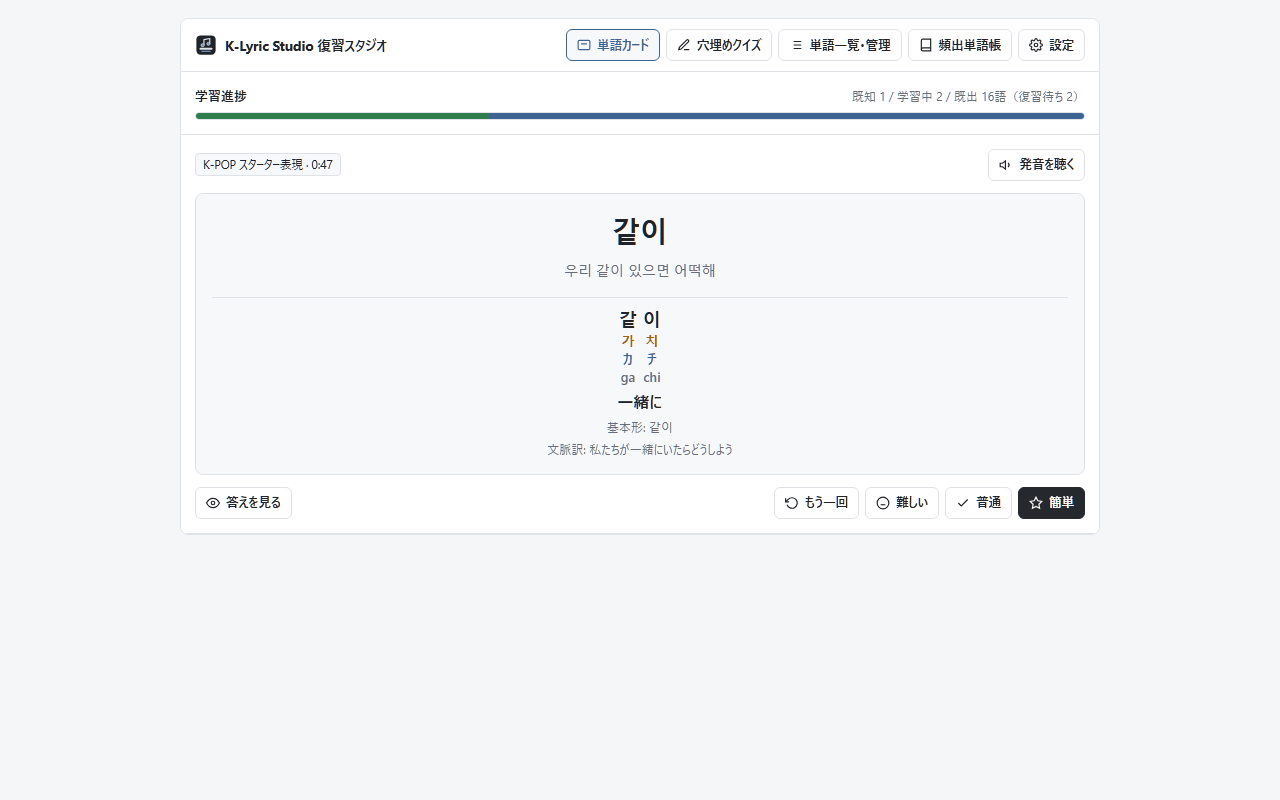
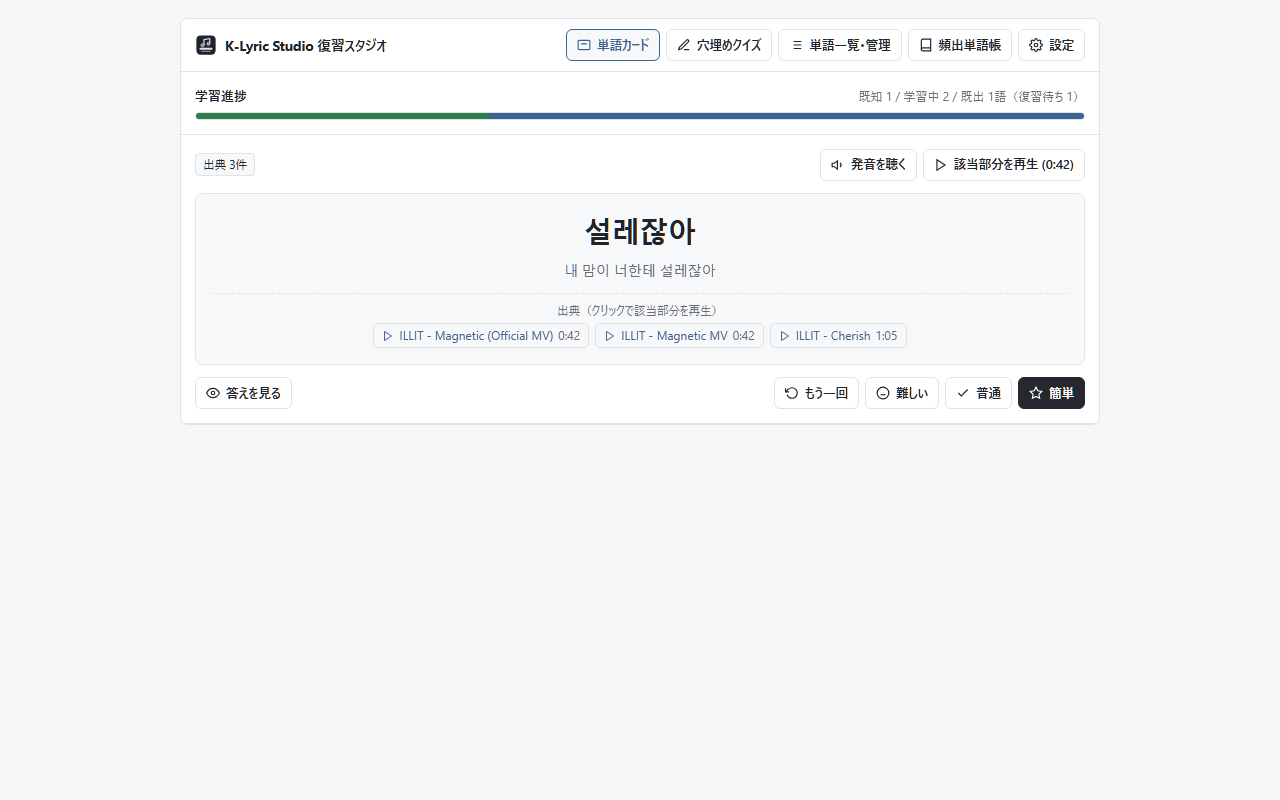
v1.7.2: 復習スタジオ全タブでvocabLog統合出典を表示し該当秒数再生リンクを追加、YTMの&t=シーク補助を実装

diff --git a/studio.js b/studio.js
@@ -99,18 +99,40 @@
   }
 
   function itemOccurrences(item) {
-    if (Array.isArray(item && item.occurrences) && item.occurrences.length) {
-      return item.occurrences.filter((o) => o && o.url);
+    if (!item) return [];
+    const cardOccs = Array.isArray(item.occurrences) && item.occurrences.length
+      ? item.occurrences.filter((o) => o && o.url)
+      : item.sourceUrl
+        ? [{
+            videoId: "",
+            title: item.sourceTitle || "YouTube",
+            sec: item.timestampSec || 0,
+            url: item.sourceUrl
+          }]
+        : [];
+
+    const wordsMap = state.vocabLog && state.vocabLog.words;
+    let logOccs = [];
+    if (wordsMap) {
+      const candidates = [item.lemma, item.surface];
+      if (Dict && item.surface) {
+        const clean = Dict.cleanHangulWord ? Dict.cleanHangulWord(item.surface) : "";
+        const analyzed = Dict.analyzeToken ? Dict.analyzeToken(item.surface) : null;
+        if (analyzed && analyzed.lemma) candidates.push(analyzed.lemma);
+        if (clean) candidates.push(clean);
+      }
+      for (const k of candidates) {
+        if (k && wordsMap[k] && Array.isArray(wordsMap[k].occurrences) && wordsMap[k].occurrences.length) {
+          logOccs = wordsMap[k].occurrences;
+          break;
+        }
+      }
     }
-    if (item && item.sourceUrl) {
-      return [{
-        videoId: "",
-        title: item.sourceTitle || "YouTube",
-        sec: item.timestampSec || 0,
-        url: item.sourceUrl
-      }];
+
+    if (VocabLog && typeof VocabLog.mergeOccurrences === "function") {
+      return VocabLog.mergeOccurrences(cardOccs, logOccs);
     }
-    return [];
+    return cardOccs.length ? cardOccs : logOccs;
   }
 
   function renderOccurrencesHtml(occs, limit = 3) {
@@ -144,17 +166,23 @@
     }
 
     const occs = itemOccurrences(item);
-    document.getElementById("card-source-badge").textContent = `${item.sourceTitle || "出典"} · ${formatSec(item.timestampSec)}`;
     const primary = occs[0];
+    document.getElementById("card-source-badge").textContent = occs.length > 1
+      ? `出典 ${occs.length}件`
+      : primary
+        ? `${primary.title || "出典"} · ${formatSec(primary.sec)}`
+        : (item.sourceTitle || "出典なし");
     if (primary && primary.url) {
       vLink.href = primary.url;
-      vLink.querySelector("span").textContent = `${primary.title || "動画"} (${formatSec(primary.sec)})`;
+      vLink.querySelector("span").textContent = `該当部分を再生 (${formatSec(primary.sec)})`;
       vLink.classList.remove("kls-hidden");
     } else {
       vLink.classList.add("kls-hidden");
     }
     if (occBox) {
-      occBox.innerHTML = occs.length > 1 ? renderOccurrencesHtml(occs, 4) : "";
+      occBox.innerHTML = occs.length
+        ? `<div class="kls-source-label">出典（クリックで該当部分を再生）</div>${renderOccurrencesHtml(occs, 4)}`
+        : `<div class="kls-muted">視聴動画からの出典はまだありません（動画で登場すると自動で紐付きます）</div>`;
     }
 
     document.getElementById("card-surface").textContent = item.surface;
@@ -184,7 +212,29 @@
     if (!all.length) return;
     const item = all[state.clozeIdx % all.length];
     const q = SRS.buildClozeQuestion(item, all, state.clozeIdx);
-    document.getElementById("cloze-source").textContent = `${item.sourceTitle || "出典"} · ${formatSec(item.timestampSec)}`;
+    const occs = itemOccurrences(item);
+    const primary = occs[0];
+    document.getElementById("cloze-source").textContent = occs.length > 1
+      ? `出典 ${occs.length}件`
+      : primary
+        ? `${primary.title || "出典"} · ${formatSec(primary.sec)}`
+        : (item.sourceTitle || "穴埋めクイズ");
+    const cLink = document.getElementById("btn-cloze-video");
+    if (cLink) {
+      if (primary && primary.url) {
+        cLink.href = primary.url;
+        cLink.querySelector("span").textContent = `該当部分を再生 (${formatSec(primary.sec)})`;
+        cLink.classList.remove("kls-hidden");
+      } else {
+        cLink.classList.add("kls-hidden");
+      }
+    }
+    const cOccBox = document.getElementById("cloze-occurrences");
+    if (cOccBox) {
+      cOccBox.innerHTML = occs.length
+        ? `<div class="kls-source-label">出典（クリックで該当部分を再生）</div>${renderOccurrencesHtml(occs, 4)}`
+        : "";
+    }
     document.getElementById("cloze-prompt").textContent = q.promptLine;
     document.getElementById("cloze-ja").textContent = q.jaContext ? `訳: ${q.jaContext}` : "";
 
@@ -447,6 +497,20 @@
         renderAll();
       }
     });
+
+    if (typeof chrome !== "undefined" && chrome.storage && chrome.storage.onChanged) {
+      chrome.storage.onChanged.addListener((changes) => {
+        if (changes.vocabLog && VocabLog) {
+          state.vocabLog = VocabLog.normalizeStore(changes.vocabLog.newValue);
+          renderAll();
+        }
+        if (changes.savedCards && changes.savedCards.newValue) {
+          state.savedCards = changes.savedCards.newValue;
+          buildQueue();
+          renderAll();
+        }
+      });
+    }
 
     document.getElementById("freq-search").oninput = renderFreqPane;
     document.getElementById("freq-sort").onchange = renderFreqPane;

diff --git a/studio.html b/studio.html
@@ -59,7 +59,7 @@
           </button>
           <a id="btn-card-video" href="#" target="_blank" rel="noopener" class="kls-btn">
             <svg viewBox="0 0 24 24" fill="none" stroke="currentColor" stroke-width="2"><polygon points="5 3 19 12 5 21 5 3"></polygon></svg>
-            <span>元動画の秒数を開く</span>
+            <span>該当部分を再生</span>
           </a>
         </div>
       </div>
@@ -67,7 +67,7 @@
       <div class="kls-card-box" style="text-align:center;display:grid;gap:8px;">
         <div id="card-surface" style="font-size:28px;font-weight:700;"></div>
         <div id="card-context" class="kls-muted" style="font-size:14px;"></div>
-        <div id="card-occurrences"></div>
+        <div id="card-occurrences" class="kls-source-box"></div>
         <div id="card-answer" class="kls-hidden" style="border-top:1px solid var(--ui-border);padding-top:10px;display:grid;gap:4px;">
           <div id="card-reading" style="font-size:14px;font-weight:600;color:var(--ui-accent);"></div>
           <div id="card-meaning" style="font-size:16px;font-weight:700;"></div>
@@ -106,16 +106,23 @@
     <section id="pane-cloze" class="kls-section kls-hidden" style="display:grid;gap:12px;">
       <div class="kls-row">
         <span id="cloze-source" class="kls-badge">穴埋めクイズ</span>
-        <button id="btn-cloze-speak" type="button" class="kls-btn">
-          <svg viewBox="0 0 24 24" fill="none" stroke="currentColor" stroke-width="2"><polygon points="11 5 6 9 2 9 2 15 6 15 11 19 11 5"></polygon><path d="M15.54 8.46a5 5 0 0 1 0 7.07"></path></svg>
-          <span>文を読み上げ</span>
-        </button>
+        <div class="kls-seg">
+          <button id="btn-cloze-speak" type="button" class="kls-btn">
+            <svg viewBox="0 0 24 24" fill="none" stroke="currentColor" stroke-width="2"><polygon points="11 5 6 9 2 9 2 15 6 15 11 19 11 5"></polygon><path d="M15.54 8.46a5 5 0 0 1 0 7.07"></path></svg>
+            <span>文を読み上げ</span>
+          </button>
+          <a id="btn-cloze-video" href="#" target="_blank" rel="noopener" class="kls-btn kls-hidden">
+            <svg viewBox="0 0 24 24" fill="none" stroke="currentColor" stroke-width="2"><polygon points="5 3 19 12 5 21 5 3"></polygon></svg>
+            <span>該当部分を再生</span>
+          </a>
+        </div>
       </div>
 
       <div class="kls-card-box" style="text-align:center;display:grid;gap:6px;">
         <div id="cloze-prompt" style="font-size:20px;font-weight:700;"></div>
         <div id="cloze-ja" class="kls-muted"></div>
         <div id="cloze-feedback" class="kls-hidden" style="padding-top:8px;border-top:1px solid var(--ui-border);"></div>
+        <div id="cloze-occurrences" class="kls-source-box"></div>
       </div>
 
       <div id="cloze-choices" class="kls-grid-2"></div>

diff --git a/content.js b/content.js
@@ -123,6 +123,7 @@
     vocabLog: null,
     vocabRecordNote: "",
     newlyRecordedVideoId: "",
+    appliedSeekKey: "",
     quickStatus: {},
     meta: {
       isMusic: location.hostname === "music.youtube.com",
@@ -1104,6 +1105,32 @@
     return true;
   }
 
+  function parseStartSecFromUrl(href) {
+    try {
+      const t = new URL(href, location.href).searchParams.get("t");
+      if (!t) return 0;
+      if (/^\d+$/.test(t)) return Number(t);
+      const m = t.match(/^(?:(\d+)h)?(?:(\d+)m)?(?:(\d+)s?)?$/i);
+      if (!m) return 0;
+      return (Number(m[1]) || 0) * 3600 + (Number(m[2]) || 0) * 60 + (Number(m[3]) || 0);
+    } catch (_) {
+      return 0;
+    }
+  }
+
+  function maybeApplyUrlTimestampSeek(v) {
+    const vid = state.meta.videoId;
+    const sec = parseStartSecFromUrl(location.href);
+    if (!vid || sec <= 0 || !v || isActualAdPlaying(v)) return;
+    if (!Number.isFinite(v.duration) || v.duration <= sec) return;
+    const key = `${vid}|${sec}`;
+    if (state.appliedSeekKey === key) return;
+    state.appliedSeekKey = key;
+    if (Math.abs(v.currentTime - sec) > 3) {
+      v.currentTime = sec;
+    }
+  }
+
   function syncToCurrentTime() {
     const v = state.videoEl || findVideoElement();
     if (!v || !state.cues.length || !isActive()) {
@@ -1115,6 +1142,7 @@
       renderOverlay(null);
       return;
     }
+    maybeApplyUrlTimestampSeek(v);
     const t = v.currentTime;
 
     // 1-line loop enforcement

diff --git a/ui.css b/ui.css
@@ -493,11 +493,29 @@ body {
   user-select: none;
 }
 
-#card-occurrences .kls-occ-wrap {
+#card-occurrences .kls-occ-wrap,
+#cloze-occurrences .kls-occ-wrap {
   justify-content: center;
 }
 
-#card-occurrences .kls-occ-more {
+#card-occurrences .kls-occ-more,
+#cloze-occurrences .kls-occ-more {
   text-align: center;
   margin-top: 4px;
+}
+
+.kls-source-box {
+  margin-top: 4px;
+  padding-top: 8px;
+  border-top: 1px dashed var(--ui-border);
+}
+
+.kls-source-box:empty {
+  display: none;
+}
+
+.kls-source-label {
+  font-size: 11.5px;
+  color: var(--ui-muted);
+  margin-bottom: 4px;
 }

diff --git a/tests/e2e_verify.py b/tests/e2e_verify.py
@@ -221,6 +221,27 @@ def run_e2e() -> None:
                 }));
             }""")
             studio.reload(wait_until="networkidle")
+            # Advance past '같이' (due from mock) so the queued starter/saved card '설레잖아' is shown,
+            # verifying vocabLog occurrences merge into both Card and Cloze tabs.
+            while studio.locator("#card-surface").inner_text().strip() != "설레잖아":
+                studio.locator('.grade-btn[data-grade="4"]').click()
+            studio.wait_for_selector("#card-occurrences .kls-occ-link")
+            card_occ_links = studio.eval_on_selector_all(
+                "#card-occurrences .kls-occ-link",
+                "els => els.map(e => ({ text: e.textContent, href: e.getAttribute('href') }))"
+            )
+            assert any("ILLIT - Magnetic MV" in l["text"] and "&t=42s" in l["href"] for l in card_occ_links), card_occ_links
+            assert not studio.locator("#btn-card-video").evaluate("el => el.classList.contains('kls-hidden')")
+            studio.screenshot(path=str(DOCS / "screenshot-studio.png"), full_page=False)
+            studio.locator('[data-stab="cloze"]').click()
+            for _ in range(3):
+                if studio.locator("#cloze-occurrences .kls-occ-link").count() > 0:
+                    break
+                studio.locator("#btn-cloze-next").click()
+            studio.wait_for_selector("#cloze-occurrences .kls-occ-link")
+            cloze_href = studio.locator("#btn-cloze-video").get_attribute("href")
+            assert cloze_href and "&t=" in cloze_href, cloze_href
+
             studio.locator('[data-stab="freq"]').click()
             studio.wait_for_selector("#freq-word-list .kls-occ-link")
             occ_links = studio.eval_on_selector_all(
